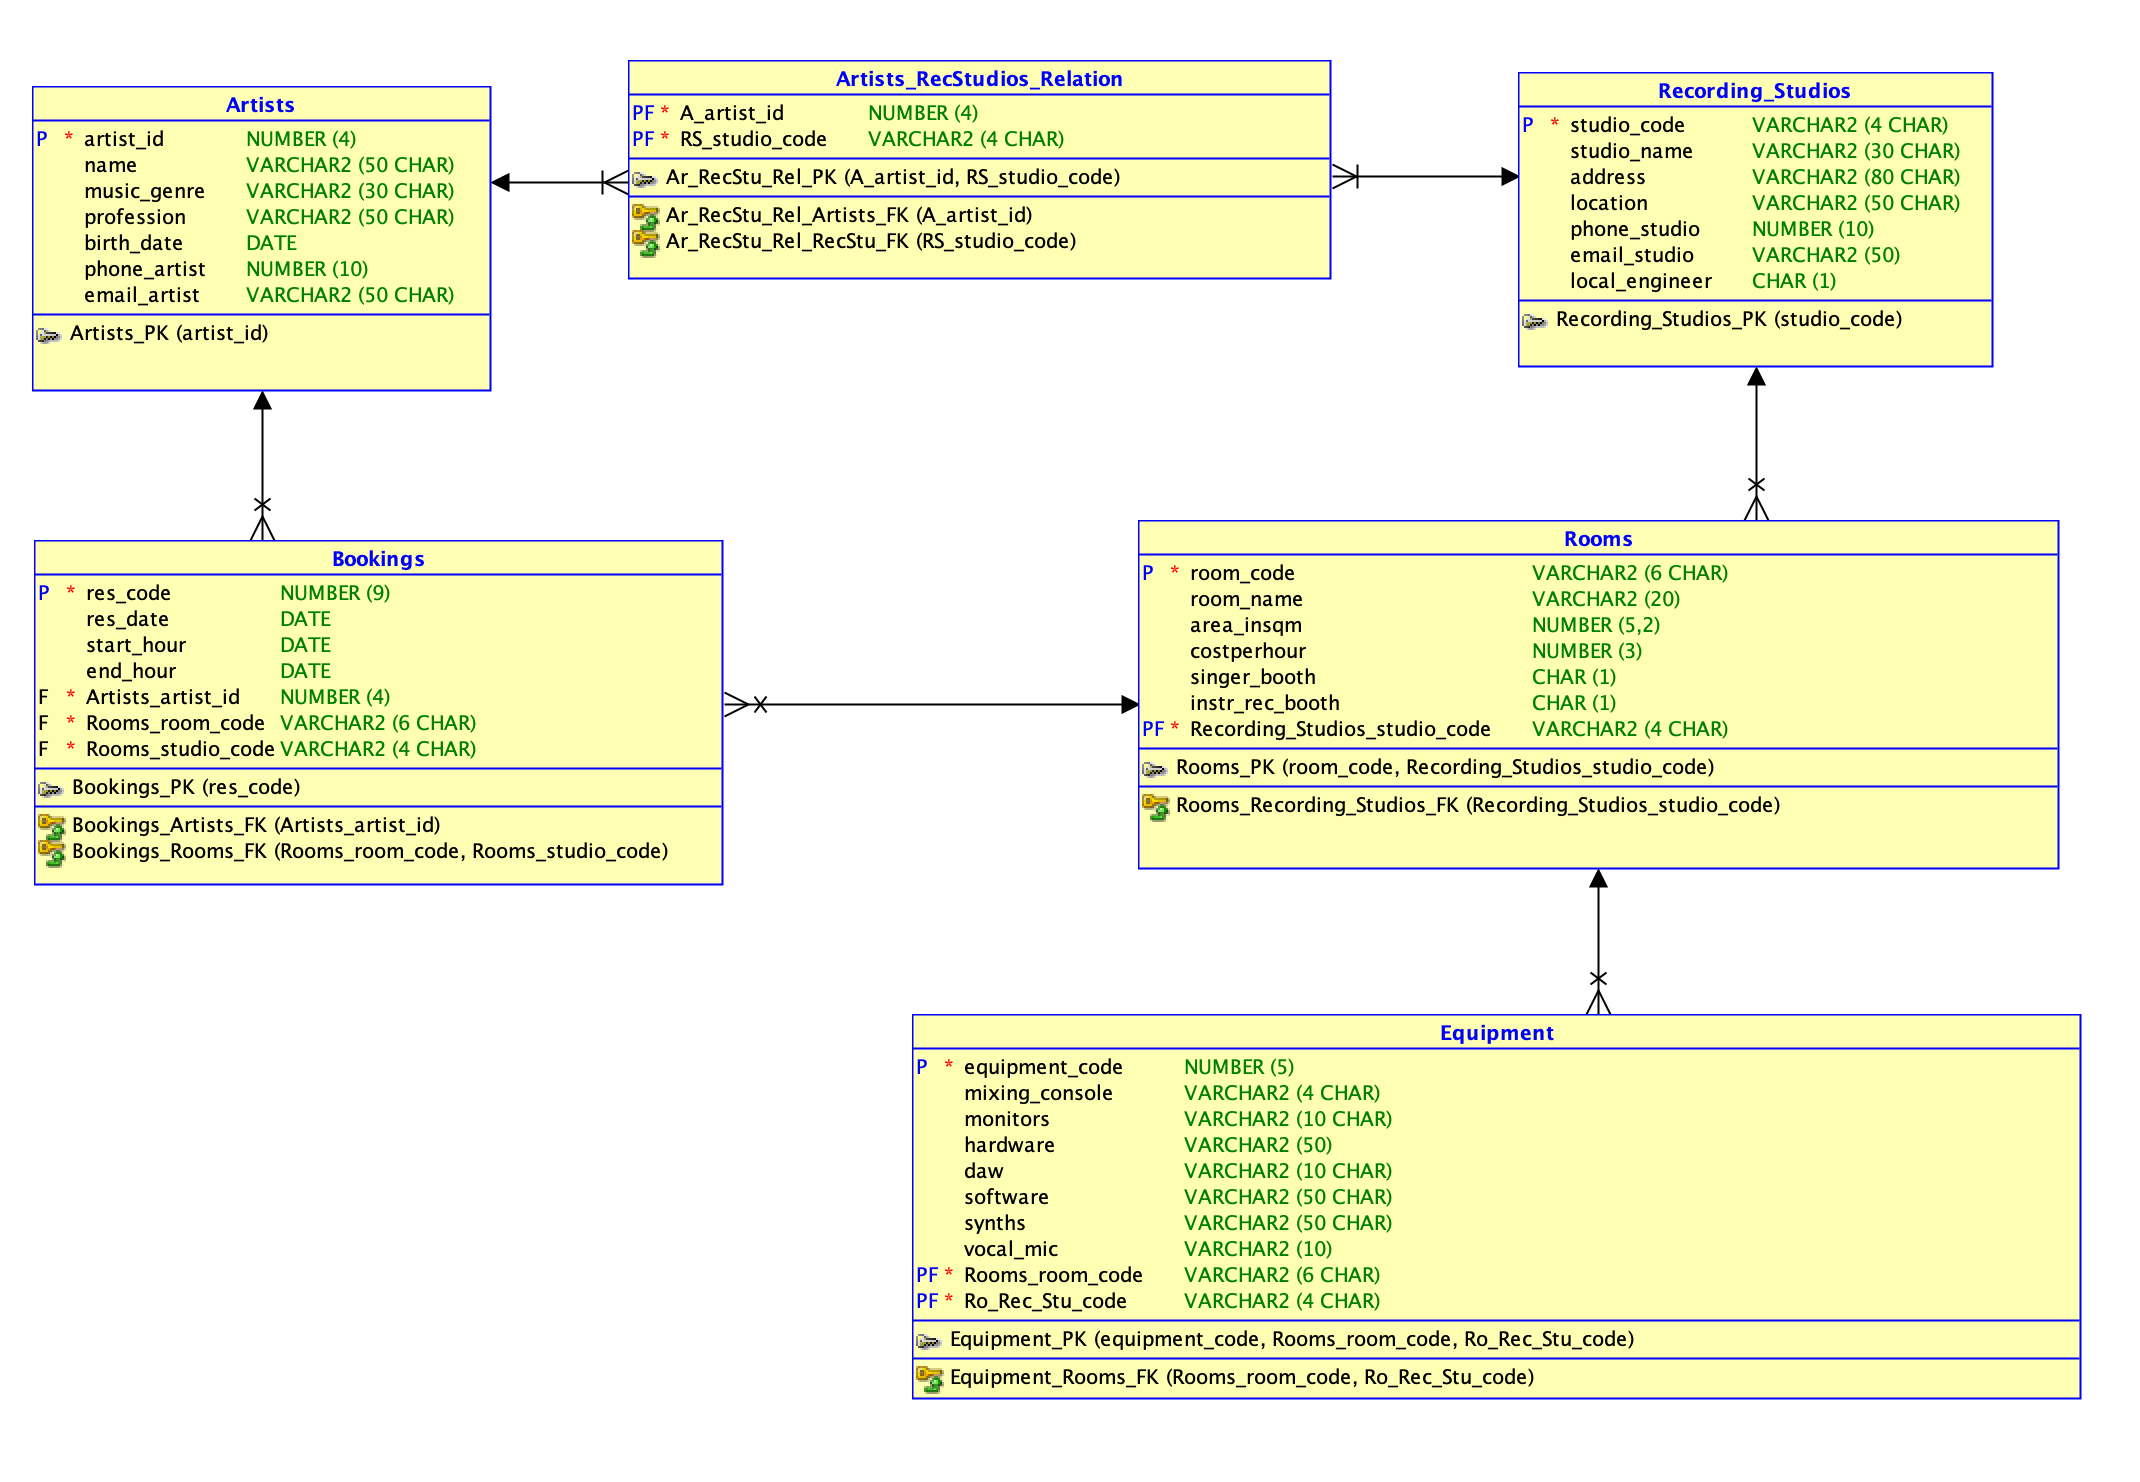
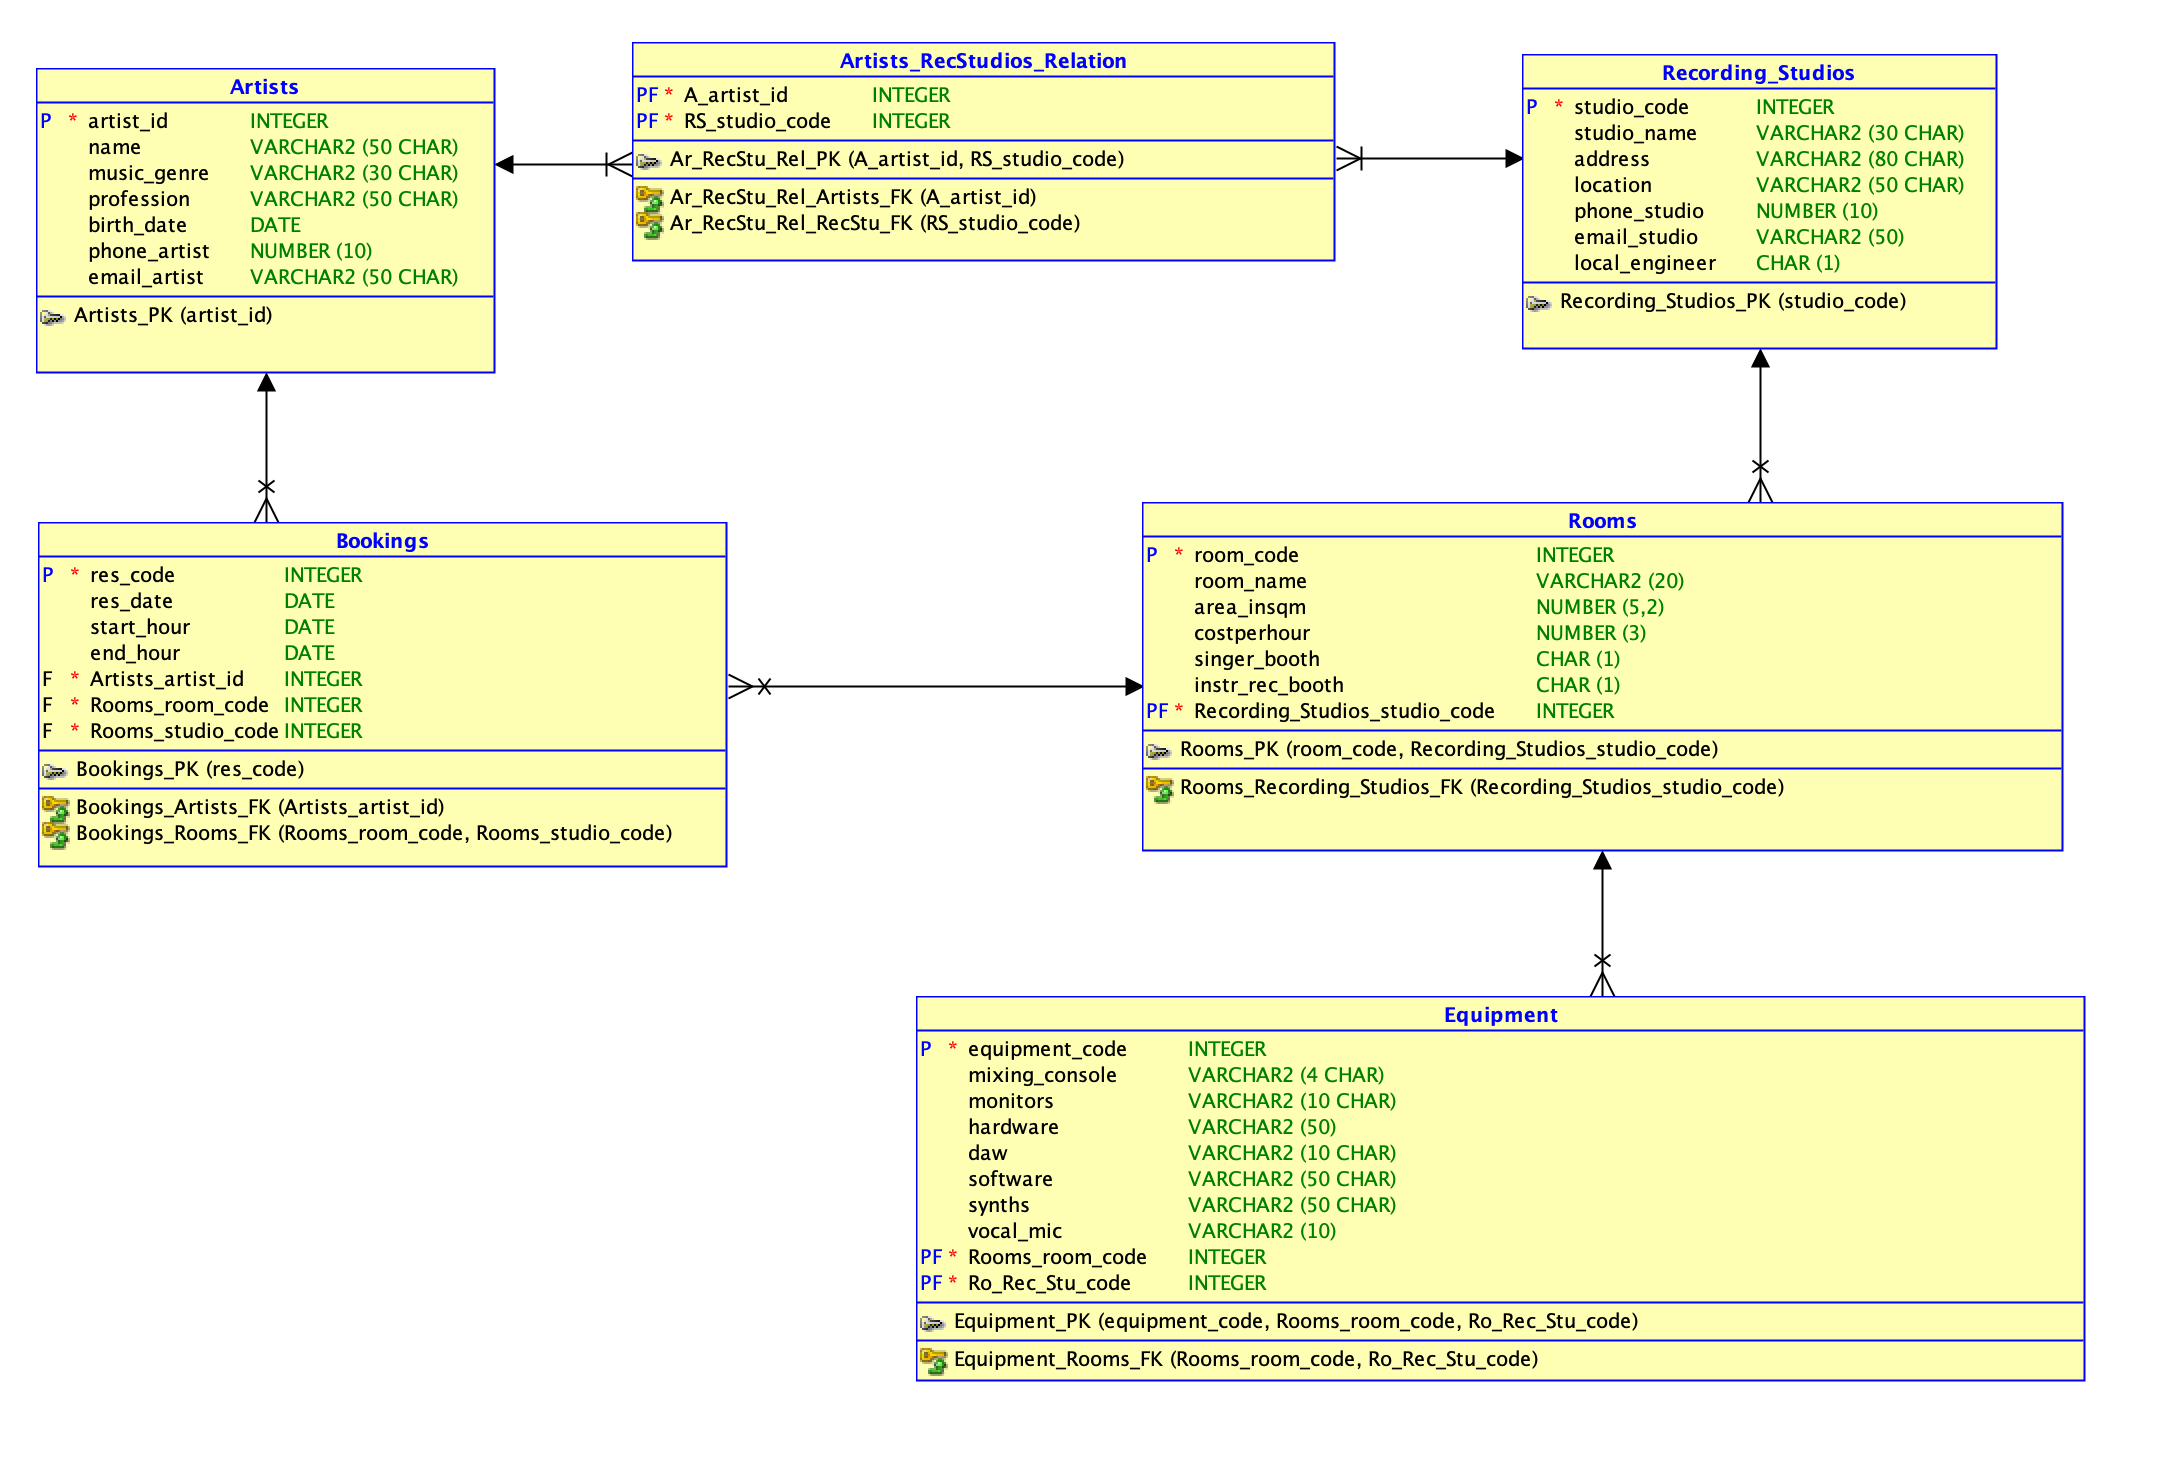
M3 - Create Database sql + run Oracle

Changed region(s): [[0.0, 0.0308, 0.9869, 0.6156], [0.4009, 0.6464, 0.9869, 0.9542]]

diff --git a/D5_QUERY/Query_output.md b/D5_QUERY/Query_output.md
@@ -1,0 +1,84 @@
+Milestone 3: Creatie Databank
+---
+
+    Identity columns
+---
+- Mandatory
+  - Artists: artist_id
+  - Recording_Studios: studio_code
+  - Rooms: room_code
+  - Equipment: equipment_code
+- other:
+  - Bookings: res_code
+
+
+      Table Counts
+---
+![Table counts](./screenshots/table_count.PNG)
+
+    @query 1: Relatie Veel-op-veel
+
+    SELECT game_title, release_date, patch_title, p.PLAYER_NAME, h.HIGHSCORE, date_played, email
+    FROM computergames cg
+    JOIN highscores h ON cg.game_id = h.game_id
+    JOIN players p ON h.player_id = p.player_id;
+--- 
+![query 1: Relatie Veel-op-veel](./screenshots/veel_op_veel.PNG)
+
+
+
+    @query 2: 2 niveau’s diep
+
+    SELECT game_title, channel_name, channel_url, subscriber_count, video_title, viewer_count, duration
+    FROM computergames cg
+    JOIN influencer_youtubechannels iyc ON cg.game_id = iyc.game_id
+    JOIN influencer_youtubevideos iyv ON iyc.channel_id = iyv.channel_id
+    ORDER BY game_title, channel_name, video_title;
+--- 
+![query 2: 2 niveau’s diep](./screenshots/2_niveaus_diep.PNG)
+
+    @query 3: player_locations
+
+    SELECT zc.countrycode AS "COUNTRY", zc.zipcode AS "ZIP", city, country_name, street, housenumber, p.player_name
+    FROM countries c
+    JOIN zipcodes zc ON c.countrycode = zc.countrycode
+    JOIN locations lc ON zc.countrycode = lc.countrycode AND zc.zipcode = lc.zipcode
+    JOIN player_locations pl ON lc.location_id = pl.location_id
+    JOIN players p ON pl.player_id = p.player_id
+    ORDER BY player_name, country;
+--- 
+![query 3: player locations](./screenshots/player_locations.PNG)
+
+    @query 4: Game studios
+
+    SELECT gs.studio_name, zc.zipcode, zc.city, c.country_name, release_date, cg.game_title
+    FROM computergames cg
+    JOIN gamestudios gs ON cg.studio_id = gs.studio_id
+    JOIN locations l ON gs.studio_address = l.location_id
+    JOIN zipcodes zc ON l.countrycode = zc.countrycode AND l.zipcode = zc.zipcode
+    JOIN countries c ON zc.countrycode = c.countrycode
+    ORDER BY gs.studio_name,  cg.game_title;
+--- 
+![query 4: Game studios](./screenshots/game_studio.PNG)
+
+
+  Bewijs Domeinen - constraints M2
+--- 
+    Player: zipcodes - minumum 4 characters
+
+---
+![Bewijs Zipcodes](./screenshots/bewijs_zipcodes.PNG)
+
+    Player: email must contains @
+
+---
+![Bewijs email](./screenshots/bewijs_email.PNG)
+
+
+    Computergame: release_date < last_updated
+
+---
+
+![Bewijs release_patch_dates](./screenshots/bewijs_release_patch_date.PNG)
+
+
